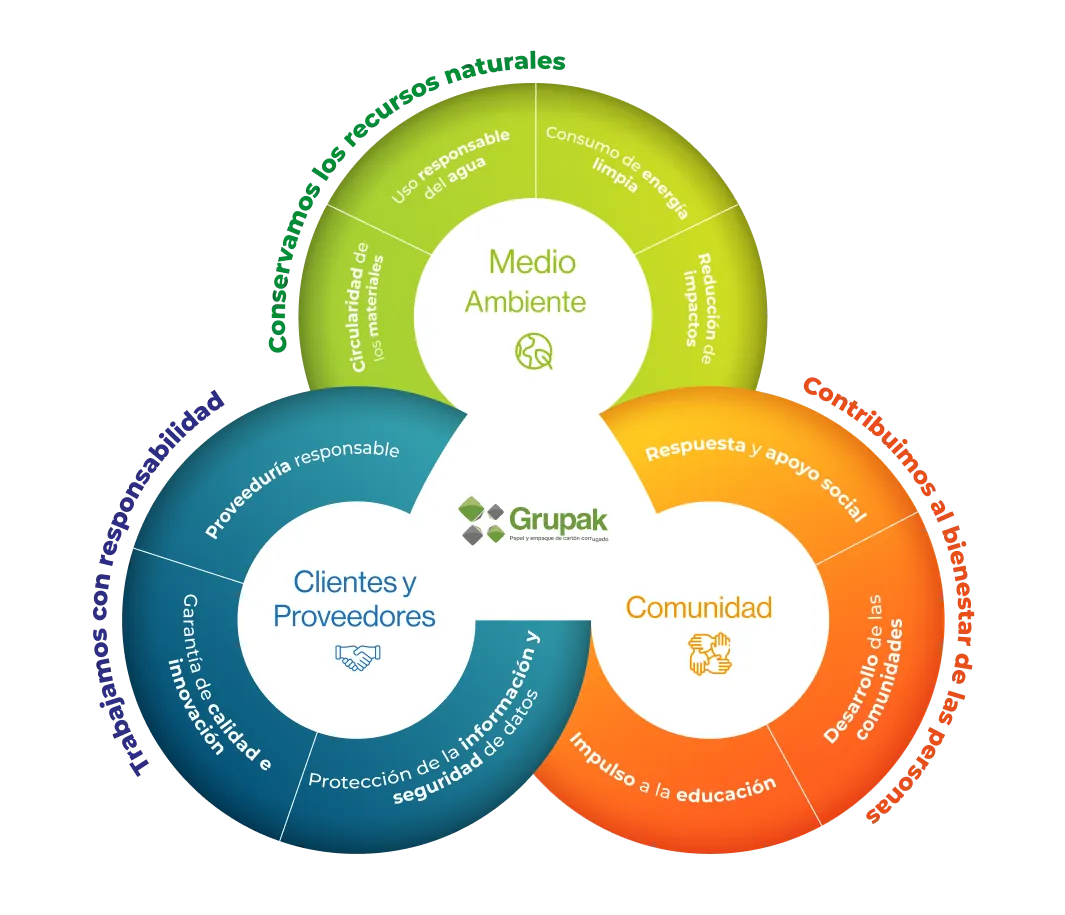
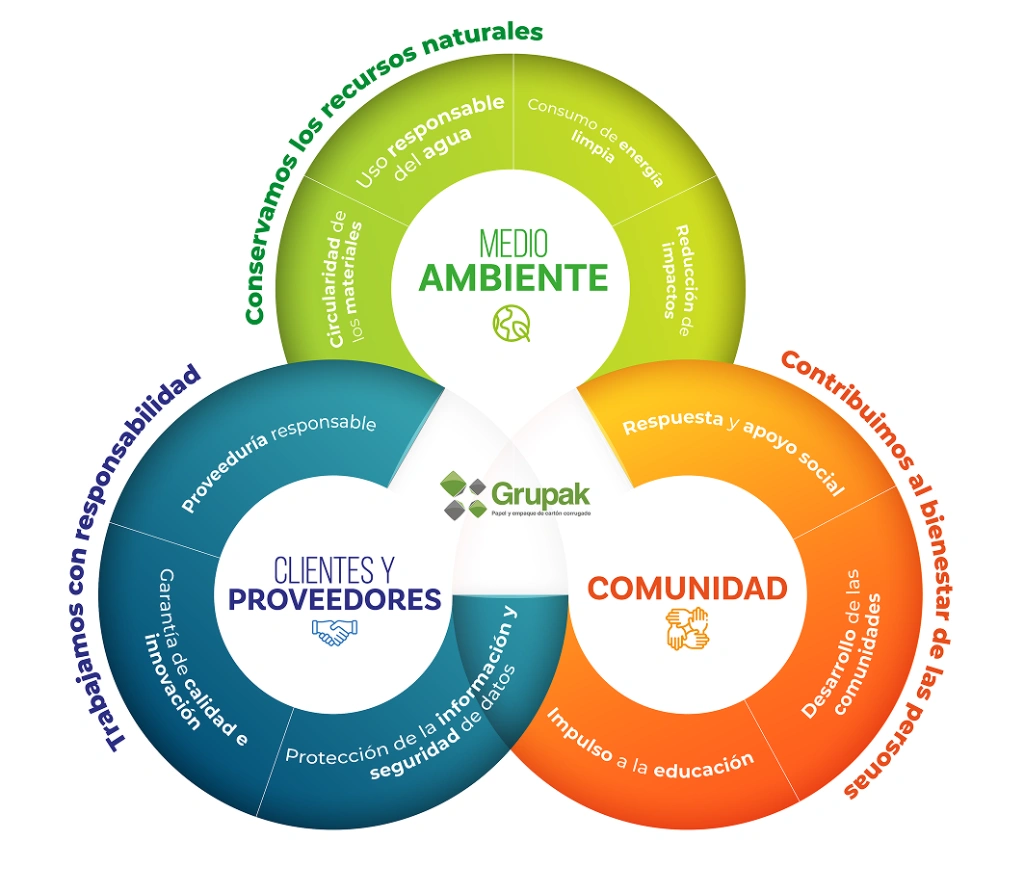
fix: replace diagram image in sustentabilidad estrategia and adjust card 3 width in comunidad

diff --git a/widgets/comunidad/comunidad.css b/widgets/comunidad/comunidad.css
@@ -329,8 +329,6 @@
 }
 
 .com-state-3 .com-panel-educacion .com-panel-copy {
-    width: 698px;
-    font-size: 15px;
     opacity: 1;
     transform: translateY(0);
 }
